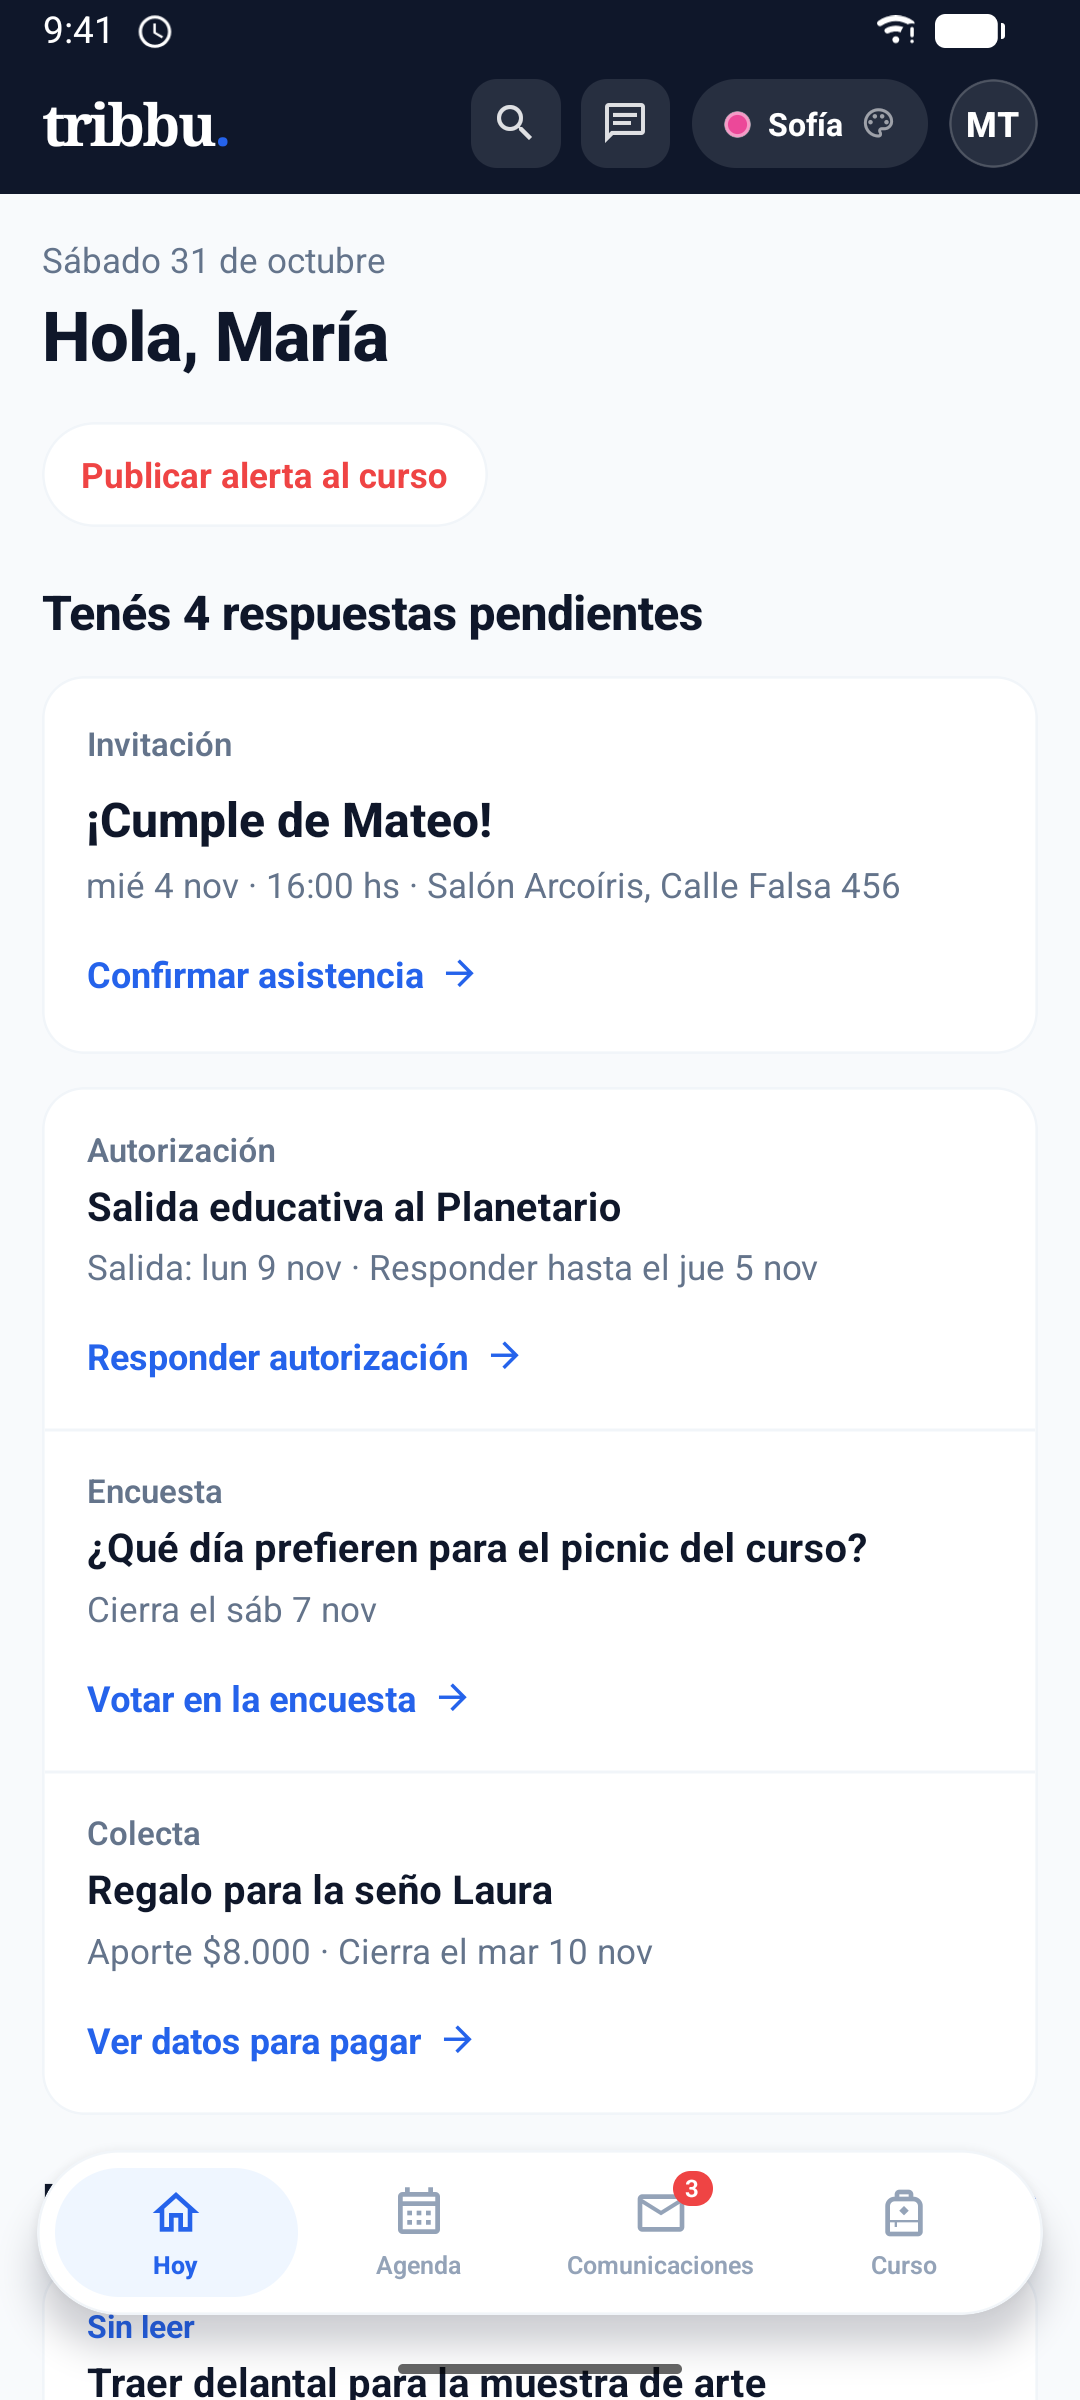
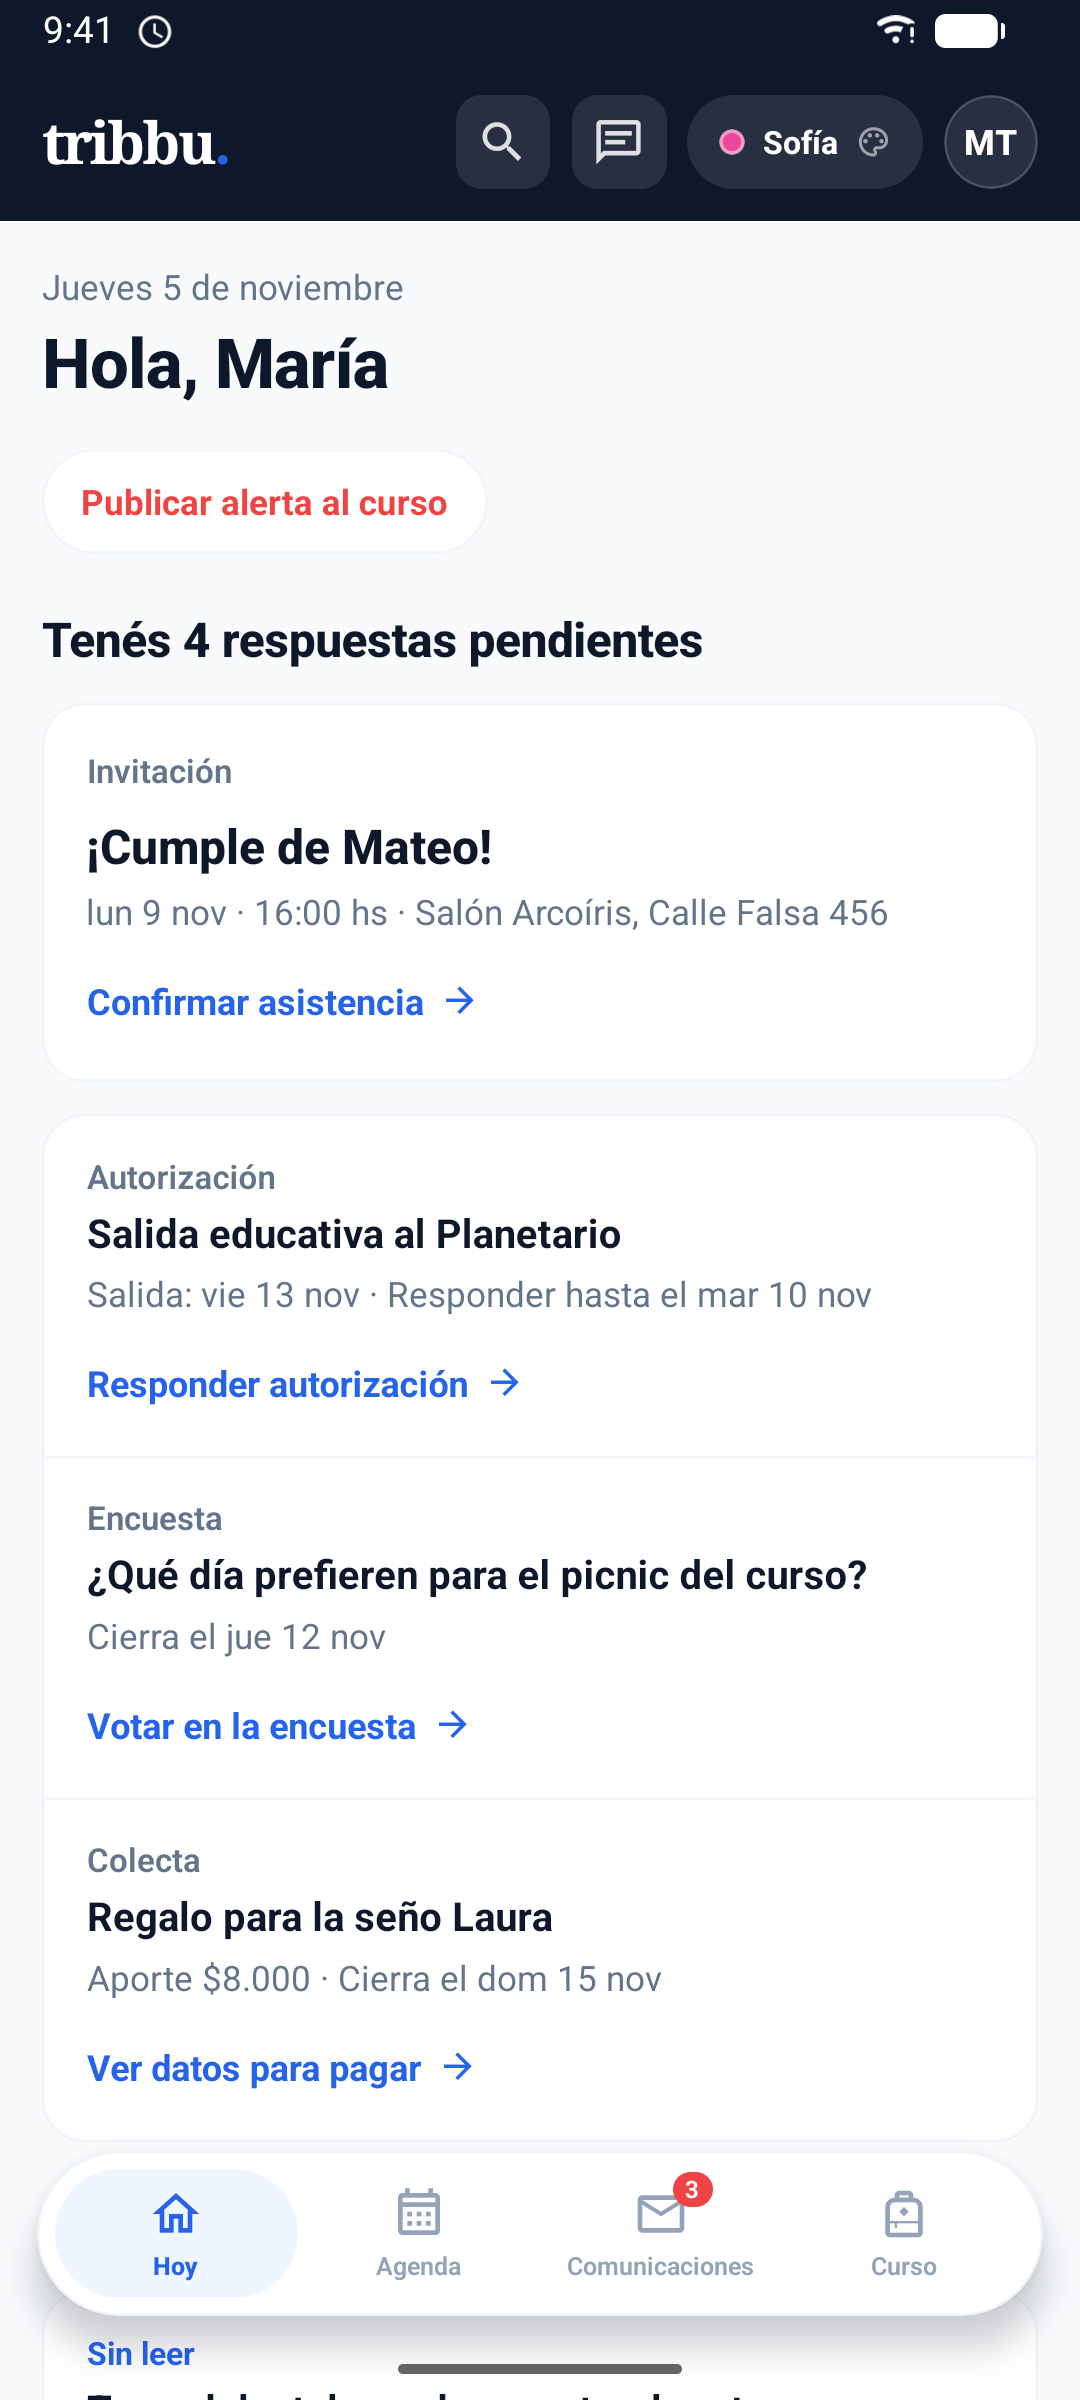
chore(stores): capturas 1.16.0
Set regenerado desde 05671ae: header más alto, fechas al día y "Pagos al
colegio" en Curso. Notas de 1.16.0 con build 50 / vc56 (49 / vc55 quedan
sin usar por el bucle de renders del globito de Pagos).

Claude-Session: https://claude.ai/code/session_016F9Sq5ccm4NGsTz4EVkMio

diff --git a/mobile/stores/release-notes-1.16.0.md b/mobile/stores/release-notes-1.16.0.md
@@ -1,10 +1,12 @@
 # Release notes 1.16.0 (es-419)
 
-Commits `2d65283..` (desde 1.15.0, la última publicada). Compilada en los servidores de EAS: esta máquina es Windows y no compila iOS. Números de build: completar al terminar.
+Android vc56 · iOS build 50 · commits `2d65283..05671ae` (desde 1.15.0, la última publicada).
 
-Las capturas de las fichas quedaron viejas según `capturas-tienda.mjs detectar` (cambió el header): regenerarlas en la Mac antes de `/store-promote`.
+Compilados en la Mac el 2026-11-05: **iOS build 50** (iphoneos26.2) → ASC, submission `7fc891e3`; **Android vc56** (R8, Firebase ×2) → Play interno, submission `aced85a6`. Quedan sin usar build 49 / vc55 (de `d7a804a`, submissions `bedfa12a` y `5534f82f`): traen el bucle de renders del globito de Pagos (ver `05671ae` abajo). Antes del build se verificó que el SQL de multicuenta y de pagos estuviera en prod (`registrar_push_token`, `push_token_cuentas`, `avisar_pago_colegio`, `pagos_colegio`, `pago_colegio_alumnos`).
 
-Login y onboarding no cambian para la cuenta demo, que sigue valiendo. Las Review Notes quedan igual que en 1.15.0: ya están al borde del límite de 4000 caracteres de ASC y la función es opcional.
+> **Capturas**: quedaron viejas por el header nuevo (`capturas-tienda.mjs detectar`). El set se regeneró desde `05671ae` (PR #19), con un build Release de ese commit en el simulador y el AAB de vc56 en el emulador: las mismas 6 pantallas con el header más alto, las fechas al día y "Pagos al colegio" en Curso. `/store-promote` las sube a las dos fichas.
+
+Login y onboarding no cambian para la cuenta demo, que sigue valiendo. Agregar otra cuenta (multicuenta) es opcional y no cambia el login. Las Review Notes suman Pagos al colegio (ver la sección), sin pasarse de los 4000 caracteres de ASC.
 
 ## Google Play — "Novedades" (máx. 500 caracteres)
 
@@ -35,18 +37,18 @@ Para los colegios
 
 ## App Review — "Notas" (App Store Connect → Información de la revisión de la app)
 
-Igual que 1.15.0.
+Como las de 1.15.0, con Pagos al colegio: en la lista de Curso, en Hoy ("payments") y en PAYMENTS, junto a Colectas (mismo esquema: se paga por fuera, la familia avisa y el colegio confirma). La cuenta demo no tiene pagos cargados: el revisor ve la pantalla vacía. Para entrar en el límite se acortaron Horario, Salidas, Ayuda y soporte y el link al sitio.
 
 ```
 tribbu is a school-community app for parents and guardians of school-age children. Any school can adopt it; it is not built for or restricted to a single organization.
 
 HOW TO REVIEW
 Sign in with the demo account provided above. It belongs to "María", parent of Sofía in the demo classroom "3°A - Primaria" of "Colegio Demo tribbu" (a sample school with no real families). María is also that classroom's Room Parent (the volunteer parent who coordinates the class), so she can create content too. The account is pre-loaded with sample data. The app has four sections in the bottom bar:
-• Hoy (Today): what is waiting for the family's answer (permission slips, fundraisers, invitations, polls), then unread notices, the next five days and today's lunch menu.
-• Agenda: Calendario (class events), Horario (the weekly class timetable, one day at a time) and Cumpleaños (classmates' birthdays and party invitations).
-• Comunicaciones: Avisos (class and school notices, with read receipts), Mensajes (chat) and Salidas (to tell the school office that the child will leave at a different time or with someone else).
-• Curso: Autorizaciones (permission slips), Comedor (lunch menu), Fotos escolares (school photos), Talleres (after-school workshops), Info útil, Contacto, Colectas (class fundraisers), Encuestas (polls), Marketplace (used items among families of the same school) and Lost & Found.
-The account menu (Mi cuenta) opens from the circle with the user's initials (or profile photo) at the top right; the chat bubble icon next to it opens Mensajes. Mi cuenta → Ayuda y soporte shows frequently asked questions and a chat with the tribbu team.
+• Hoy (Today): what awaits the family's answer (permission slips, payments, fundraisers, invitations, polls), unread notices, the next five days and today's lunch menu.
+• Agenda: Calendario (class events), Horario (weekly class timetable) and Cumpleaños (classmates' birthdays and party invitations).
+• Comunicaciones: Avisos (class and school notices, with read receipts), Mensajes (chat) and Salidas (to tell the school office the child leaves at another time or with someone else).
+• Curso: Autorizaciones (permission slips), Pagos al colegio (school fees, e.g. field trips), Comedor (lunch menu), Fotos escolares (school photos), Talleres (after-school workshops), Info útil, Contacto, Colectas (class fundraisers), Encuestas (polls), Marketplace (used items among families of the same school) and Lost & Found.
+The account menu (Mi cuenta) opens from the circle with the user's initials (or profile photo) at the top right; the chat bubble icon next to it opens Mensajes. Mi cuenta → Ayuda y soporte has FAQs and a chat with the tribbu team.
 
 USER-GENERATED CONTENT (Mensajes)
 Families of the same classroom can message each other, the classroom group, their children's teachers and the school office. Before writing to other families, users must accept the chat rules. Any message from another family can be reported (tap the message → Denunciar) and any user can be blocked (chat menu, or tap their message → Bloquear). Reports are reviewed by the school; blocked users are in Mi cuenta → Usuarios bloqueados. Families' phone numbers and emails are never shown to other users. To try it: Comunicaciones → Mensajes → + Nuevo (the demo classroom has another family).
@@ -55,15 +57,16 @@ HOW USERS GET AN ACCOUNT
 Accounts are created by the school from its admin panel (one by one or from a spreadsheet). There is no public sign-up screen in the app. Schools join tribbu through www.tribbu.ar or info@tribbu.ar. A user who forgets their password can reset it from the login screen ("¿Olvidaste tu contraseña?"), which emails a reset link.
 
 PAYMENTS
-The app is free: no in-app purchases, subscriptions or ads, and no money is processed through the app. "Colectas" only keeps track of a class collection (for example, a gift for the teacher): families pay outside the app (for example, by bank transfer), can tap "Ya transferí" to let the organizer know, and the organizer confirms it. In "Marketplace", families of the same school can list used items (uniforms, books); tapping "Me interesa" opens an in-app chat with the seller, and they arrange the exchange there (no payment goes through the app). "Fotos escolares" replaces the paper envelope with the yearly class photos: the school shows watermarked previews of each family's own child, the family orders and pays the school directly (transfer or cash, never in the app), and the school marks it paid. The family picks print or digital: prints are handed out at school, and a digital copy of its own child's photo can then be saved. tribbu does not sell photos or take any fee. Demo: Curso → Fotos escolares (illustrations, not real photos).
+The app is free: no in-app purchases, subscriptions or ads, and no money is processed through the app. "Colectas" (a class collection, e.g. a gift for the teacher) and "Pagos al colegio" (a school fee, e.g. a field trip) only keep track of payments made outside the app (e.g. bank transfer): the family taps "Ya transferí" or "Ya pagué" and the organizer or the school confirms it. In "Marketplace", families of the same school can list used items (uniforms, books); tapping "Me interesa" opens an in-app chat with the seller, and they arrange the exchange there (no payment goes through the app). "Fotos escolares" replaces the paper envelope with the yearly class photos: the school shows watermarked previews of each family's own child, the family orders and pays the school directly (transfer or cash, never in the app), and the school marks it paid. The family picks print or digital: prints are handed out at school, and a digital copy of its own child's photo can then be saved. tribbu does not sell photos or take any fee. Demo: Curso → Fotos escolares (illustrations, not real photos).
 
-Account deletion is available in-app under Mi cuenta (circle at the top right) → Eliminar mi cuenta (guideline 5.1.1(v)). Push notifications are scoped to the user's own classrooms. Web version: https://www.tribbu.ar/app · Website: https://www.tribbu.ar
+Account deletion is available in-app under Mi cuenta (circle at the top right) → Eliminar mi cuenta (guideline 5.1.1(v)). Push notifications are scoped to the user's own classrooms. Web version: https://www.tribbu.ar/app
 ```
 
 ## Qué entró realmente (interno, no publicar)
 
-- Pagos al colegio y reenviar comunicados (`specs/pagos-colegio.md`, `supabase/pagos-colegio.sql`, aplicado el 2026-11-05 con `send-push` y `avisos-automaticos`). Causa raíz del historial: como super, listaba comunicados de todos los colegios porque la RLS no lo acota; ahora filtra por colegio.
-- `8c70ce8` Perfil multicuenta (`specs/perfil-multicuenta.md`): cuentas guardadas, `push_token_cuentas`, `registrar_push_token`, un colegio por cuenta. SQL y funciones aplicados el 2026-11-05. **Requiere ese SQL: esta versión no registra push sin él.** Causa raíz del push tras cerrar sesión: `logout` no borraba el token.
-- `3d487fc` + `ef62059` Eliminar apoderado por `manage-auth-user`, con Auth y error visible; solo administrador del colegio o super. Causa raíz: al borrar primero los vínculos, la RLS ya no dejaba borrar la fila y no había error.
+- `0dd8800` + `3c8ed39` + `d7a804a` Pagos al colegio y reenviar comunicados (`specs/pagos-colegio.md`, `supabase/pagos-colegio.sql`, aplicado el 2026-11-05 con `send-push` y `avisos-automaticos`). Causa raíz del historial: como super, listaba comunicados de todos los colegios porque la RLS no lo acota; ahora filtra por colegio.
+- `8c70ce8` + `b46023f` Perfil multicuenta, y selector de cuentas también en el panel (`specs/perfil-multicuenta.md`): cuentas guardadas, `push_token_cuentas`, `registrar_push_token`, un colegio por cuenta. SQL y funciones aplicados el 2026-11-05. **Requiere ese SQL: esta versión no registra push sin él.** Causa raíz del push tras cerrar sesión: `logout` no borraba el token.
+- `3d487fc` + `ef62059` + `e650c65` Eliminar apoderado por `manage-auth-user`, con Auth y error visible; solo administrador del colegio o super. Causa raíz: al borrar primero los vínculos, la RLS ya no dejaba borrar la fila y no había error.
+- `05671ae` (#18) Globito de Pagos sin `usePathname`. Causa raíz: el layout de pestañas leía `usePathname()` para recontar los pagos pendientes en cada navegación; con `freezeOnBlur`, después de recorrer Hoy → Agenda → Avisos → Curso el hilo de JS quedaba en un bucle de renders (128 % de CPU) y las respuestas de red no llegaban a las pantallas, que se quedaban en "Cargando…" (Colectas, al sacar las capturas: 4 de 4). Ahora recuenta como el de Fotos (al montar, al volver a primer plano y cada 2 minutos) y la pantalla de Pagos lo recarga por contexto después de "Ya pagué" o "Deshacer". Lo traían build 49 / vc55, que quedan sin usar.
 - `1d33112` Header más alto: 8 + fila de 44 + 8.
 - `6ae1c13` Alertas: el apoderado puede cerrar la alerta del curso para sí.
